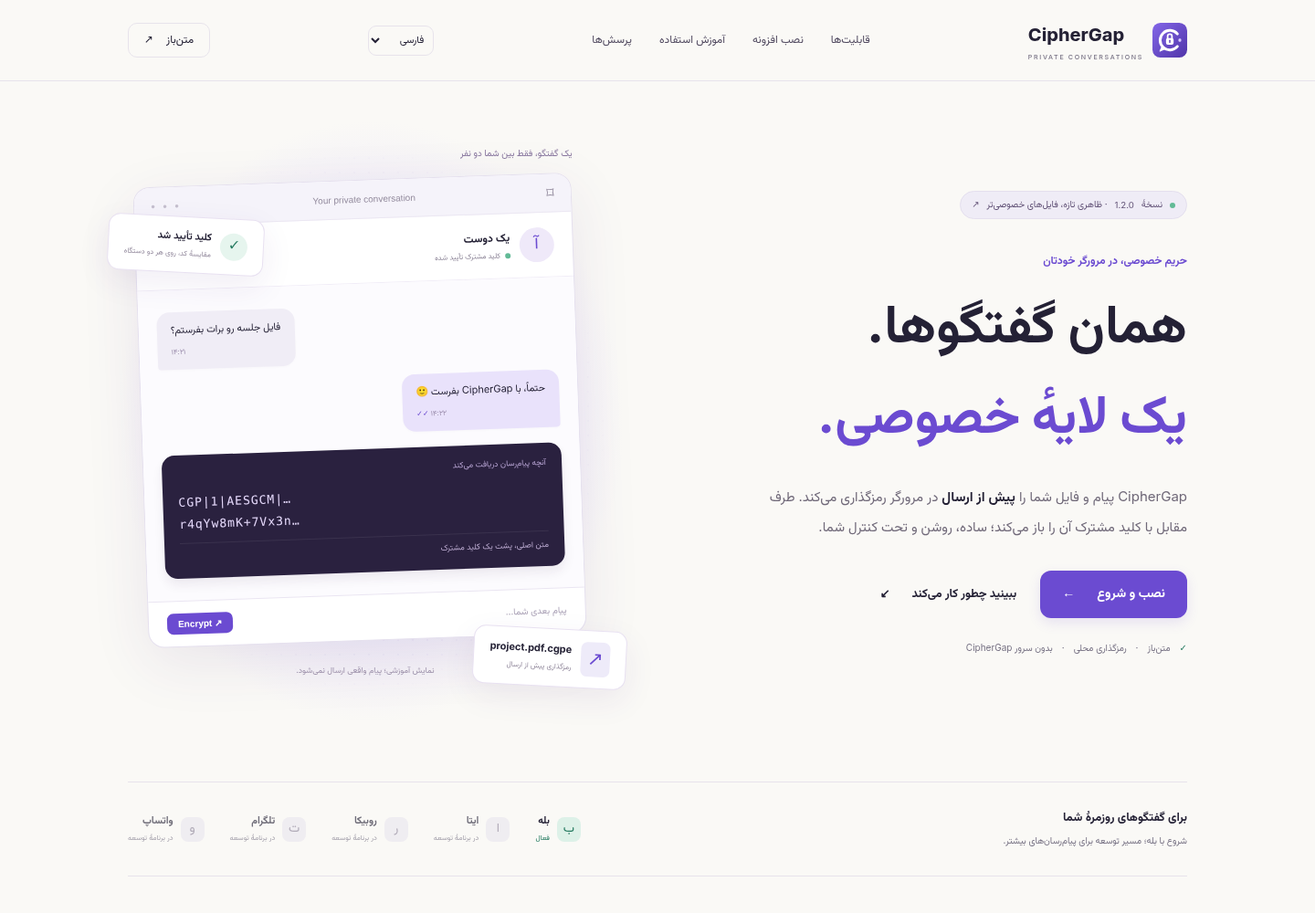
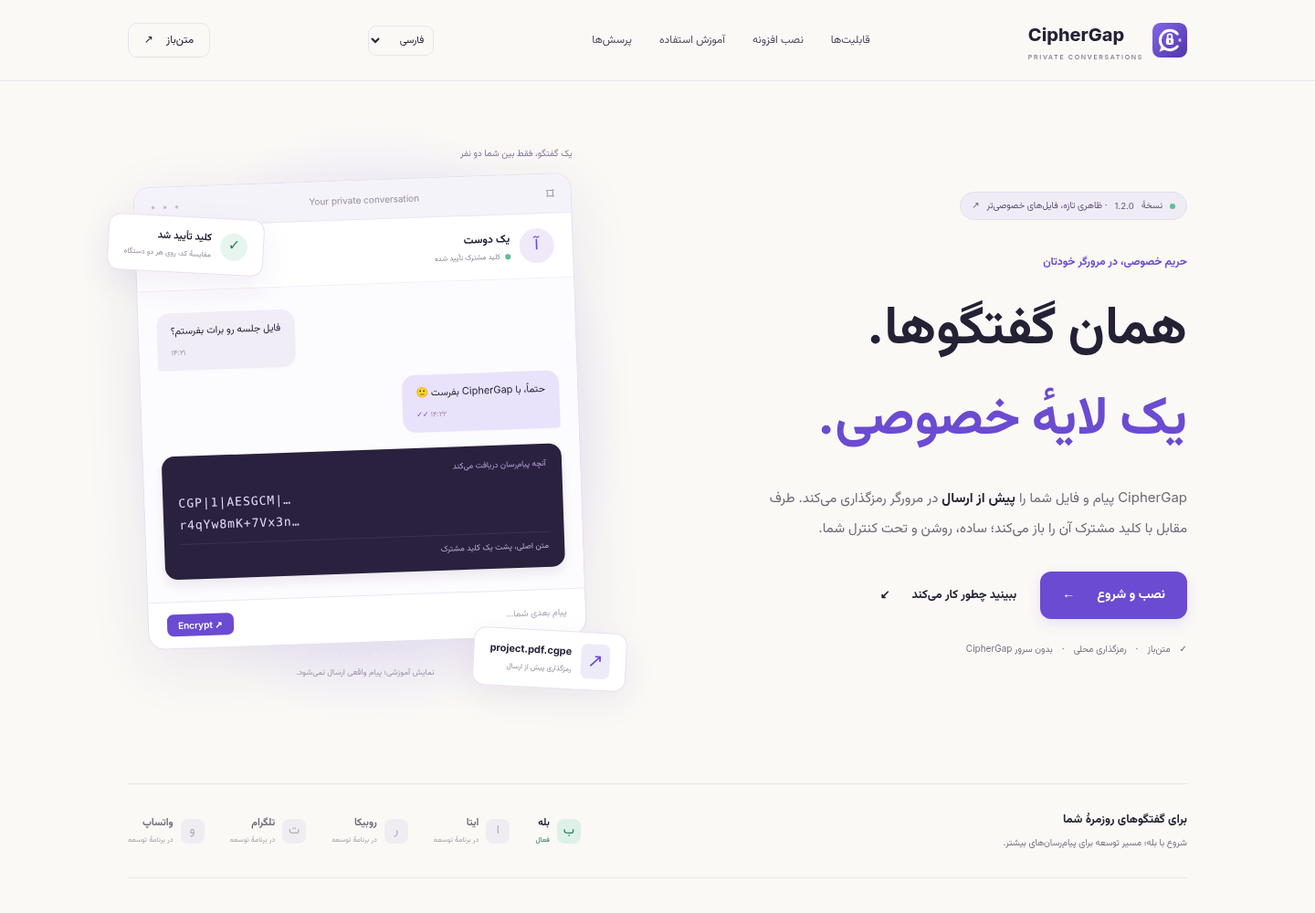
Apply local fonts across website components and translate page metadata

diff --git a/website/style.css b/website/style.css
@@ -2,13 +2,13 @@
 :root{--ink:#242135;--muted:#777284;--paper:#faf9f6;--purple:#6b4bd1;--purple-dark:#5335ae;--lavender:#eeebf9;--line:#e7e3eb;--green:#267b61;--radius:24px;scroll-behavior:smooth;scroll-padding-top:100px;color-scheme:light}
 *{box-sizing:border-box}body{margin:0;background:var(--paper);color:var(--ink);font-family:Vazirmatn,Inter,sans-serif;font-size:14px;line-height:1.9}button,a{-webkit-tap-highlight-color:transparent}button,input{font:inherit}button{cursor:pointer}a{color:inherit;text-decoration:none}img{max-width:100%;height:auto}h1,h2,h3,p,figure{margin:0}h1,h2,h3{font-weight:700}h2{font-size:36px;line-height:1.7;letter-spacing:-1.2px}h3{font-size:18px}bdi,code{font-family:Inter,Vazirmatn,sans-serif}bdi{font-size:.96em}strong{font-weight:700}[hidden]{display:none!important}:where(a,button,summary):focus-visible{outline:3px solid #aa8af4;outline-offset:5px}.container{width:min(1160px,calc(100% - 80px));margin-inline:auto}.section{padding-block:110px}.eyebrow{font-size:12px;font-weight:700;color:var(--purple);margin-bottom:14px}.dot{display:inline-block;width:6px;height:6px;border-radius:50%;background:#62ba96}.button{display:inline-flex;align-items:center;justify-content:center;gap:24px;min-height:52px;border-radius:12px;padding:12px 24px;font-weight:700;transition:background .2s,transform .2s}.button.primary{background:var(--purple);color:white;box-shadow:0 5px 14px #6b4bd122}.button.primary:hover{background:var(--purple-dark);transform:translateY(-2px)}.text-button{padding-inline:14px;font-size:13px}.text-button:hover{background:var(--lavender)}.inline-link{display:inline-flex;align-items:center;gap:18px;color:var(--purple);font-weight:700;font-size:13px}.skip-link{position:fixed;top:-80px;right:20px;background:var(--purple);color:white;padding:12px;z-index:100}.skip-link:focus{top:12px}
 .site-header{border-bottom:1px solid var(--line);background:#faf9f6f5;position:sticky;top:0;z-index:20}.header-inner{display:flex;align-items:center;justify-content:space-between;gap:24px;height:88px}.brand{display:flex;align-items:center;gap:10px;font-family:Inter,Vazirmatn,sans-serif;font-weight:750;font-size:20px}.brand img{flex-shrink:0}.brand-subtitle{display:block;font-size:7px;font-weight:500;letter-spacing:1.7px;color:var(--muted);line-height:1.6}.header-inner nav{display:flex;gap:30px;font-size:12px;color:#514a60}.header-inner nav a:hover{color:var(--purple)}.header-source{display:flex;gap:14px;align-items:center;border:1px solid var(--line);padding:7px 17px;border-radius:10px;font-size:12px}.header-source:hover{background:var(--lavender)}.menu-button{display:none}
-.hero{display:grid;grid-template-columns:1.05fr 1fr;gap:70px;align-items:center;min-height:680px;padding-block:60px 76px}.hero-copy{padding-block:20px}.release-pill{display:inline-flex;align-items:center;gap:8px;background:#efecf6;border:1px solid #e4dfee;border-radius:30px;color:#625277;font-size:10px;padding:5px 12px;margin-bottom:35px}.hero h1{font-size:58px;line-height:1.7;letter-spacing:-2px;margin-bottom:20px}.hero h1 span{color:var(--purple)}.hero-description{color:#706979;font-size:15px;max-width:470px;line-height:2.2}.hero-description strong{color:var(--ink)}.hero-actions{display:flex;align-items:center;gap:12px;margin-top:30px}.hero-note{display:flex;align-items:center;gap:10px;color:var(--muted);font-size:10px;margin-top:24px}.check{color:var(--green)}.hero-visual{position:relative;isolation:isolate;padding:48px 22px 36px 10px;direction:rtl}.hero-visual:before{content:"";position:absolute;inset:-15px -10px -10px -10px;background:radial-gradient(ellipse,#e4ddf7 0,#f1edf8 50%,transparent 71%);z-index:-2}.hero-visual:after{content:"";position:absolute;inset:0;background-image:radial-gradient(#b6a6de 1px,transparent 1px);background-size:16px 16px;mask-image:radial-gradient(ellipse,#000 10%,transparent 70%);opacity:.4;z-index:-1}.visual-label{position:absolute;top:10px;right:45px;font-size:10px;color:#8a789f}.chat-window{background:#fff;border:1px solid #e5e0ee;border-radius:18px;box-shadow:0 18px 65px #48298018;overflow:hidden;transform:rotate(-2deg);margin-inline:16px 4px}.window-title{display:flex;align-items:center;justify-content:space-between;padding:11px 18px;background:#f5f3fa;border-bottom:1px solid #ebe7f2;font:10px "Segoe UI",sans-serif;color:#958d9f;direction:ltr}.window-dots{letter-spacing:3px;color:#c5bfce;font-size:8px}.tiny-lock{font-size:16px}.chat-person{display:flex;align-items:center;gap:10px;padding:16px 20px;border-bottom:1px solid #f1edf7}.avatar{display:grid;place-items:center;width:38px;height:38px;background:#efe9f9;color:var(--purple);border-radius:50%;font-size:19px}.chat-person strong{display:block;font-size:12px}.chat-person small{display:flex;align-items:center;gap:5px;font-size:8px;color:#8c8497}.chat-mark{margin-right:auto;font:700 12px "Segoe UI",sans-serif;color:#b7aaca}.chat-messages{padding:24px 20px;display:flex;flex-direction:column;gap:14px;background:#fcfbfe;min-height:290px}.bubble{padding:11px 15px;border-radius:14px;font-size:11px;max-width:83%;box-shadow:0 1px 3px #28203305}.incoming{align-self:flex-end;background:#f0edf6;border-bottom-left-radius:4px}.outgoing{align-self:flex-start;background:#e9e2fb;border-bottom-right-radius:4px}.bubble small{display:block;text-align:left;font-size:8px;color:#9b8dac;margin-top:5px}.bubble small span{color:var(--purple)}.encrypted-bubble{background:#2a213f;color:#e4d8fa;border-radius:14px;padding:14px 17px;margin-top:3px;box-shadow:0 7px 12px #38204713}.encrypted-label{display:block;color:#b4a1d0;font-size:9px}.encrypted-bubble code{display:block;font-family:ui-monospace,monospace;font-size:13px;letter-spacing:1px;line-height:1.8;text-align:left;padding:9px 0}.encrypted-footer{display:block;padding-top:7px;border-top:1px solid #ffffff14;font-size:9px;color:#bbaaD0}.chat-composer{display:flex;align-items:center;justify-content:space-between;padding:13px 20px;font-size:10px;color:#aaa1b6;border-top:1px solid #eae5f2}.mock-encrypt{background:var(--purple);color:white;border-radius:7px;padding:6px 12px;font:600 10px "Segoe UI",sans-serif}.verification-stamp,.file-stamp{position:absolute;display:flex;align-items:center;gap:10px;background:white;border:1px solid #e8e1f1;border-radius:13px;padding:12px 17px;box-shadow:0 12px 35px #48298014;z-index:2}.verification-stamp{left:-22px;top:88px;transform:rotate(3deg)}.verification-stamp strong,.file-stamp strong{display:block;font-size:11px}.verification-stamp small,.file-stamp small{display:block;color:#948b9e;font-size:8px}.stamp-check{display:grid;place-items:center;background:#e6f5ee;width:30px;height:30px;border-radius:50%;color:var(--green);font-size:16px}.file-stamp{bottom:28px;right:-14px;transform:rotate(3deg)}.file-icon{display:grid;place-items:center;background:var(--lavender);color:var(--purple);width:32px;height:38px;border-radius:7px;font-size:21px}.visual-caption{font-size:9px;color:#a095ad;text-align:center;margin-top:25px}
+.hero{display:grid;grid-template-columns:1.05fr 1fr;gap:70px;align-items:center;min-height:680px;padding-block:60px 76px}.hero-copy{padding-block:20px}.release-pill{display:inline-flex;align-items:center;gap:8px;background:#efecf6;border:1px solid #e4dfee;border-radius:30px;color:#625277;font-size:10px;padding:5px 12px;margin-bottom:35px}.hero h1{font-size:58px;line-height:1.7;letter-spacing:-2px;margin-bottom:20px}.hero h1 span{color:var(--purple)}.hero-description{color:#706979;font-size:15px;max-width:470px;line-height:2.2}.hero-description strong{color:var(--ink)}.hero-actions{display:flex;align-items:center;gap:12px;margin-top:30px}.hero-note{display:flex;align-items:center;gap:10px;color:var(--muted);font-size:10px;margin-top:24px}.check{color:var(--green)}.hero-visual{position:relative;isolation:isolate;padding:48px 22px 36px 10px;direction:rtl}.hero-visual:before{content:"";position:absolute;inset:-15px -10px -10px -10px;background:radial-gradient(ellipse,#e4ddf7 0,#f1edf8 50%,transparent 71%);z-index:-2}.hero-visual:after{content:"";position:absolute;inset:0;background-image:radial-gradient(#b6a6de 1px,transparent 1px);background-size:16px 16px;mask-image:radial-gradient(ellipse,#000 10%,transparent 70%);opacity:.4;z-index:-1}.visual-label{position:absolute;top:10px;right:45px;font-size:10px;color:#8a789f}.chat-window{background:#fff;border:1px solid #e5e0ee;border-radius:18px;box-shadow:0 18px 65px #48298018;overflow:hidden;transform:rotate(-2deg);margin-inline:16px 4px}.window-title{display:flex;align-items:center;justify-content:space-between;padding:11px 18px;background:#f5f3fa;border-bottom:1px solid #ebe7f2;font:10px Inter,sans-serif;color:#958d9f;direction:ltr}.window-dots{letter-spacing:3px;color:#c5bfce;font-size:8px}.tiny-lock{font-size:16px}.chat-person{display:flex;align-items:center;gap:10px;padding:16px 20px;border-bottom:1px solid #f1edf7}.avatar{display:grid;place-items:center;width:38px;height:38px;background:#efe9f9;color:var(--purple);border-radius:50%;font-size:19px}.chat-person strong{display:block;font-size:12px}.chat-person small{display:flex;align-items:center;gap:5px;font-size:8px;color:#8c8497}.chat-mark{margin-right:auto;font:700 12px Inter,sans-serif;color:#b7aaca}.chat-messages{padding:24px 20px;display:flex;flex-direction:column;gap:14px;background:#fcfbfe;min-height:290px}.bubble{padding:11px 15px;border-radius:14px;font-size:11px;max-width:83%;box-shadow:0 1px 3px #28203305}.incoming{align-self:flex-end;background:#f0edf6;border-bottom-left-radius:4px}.outgoing{align-self:flex-start;background:#e9e2fb;border-bottom-right-radius:4px}.bubble small{display:block;text-align:left;font-size:8px;color:#9b8dac;margin-top:5px}.bubble small span{color:var(--purple)}.encrypted-bubble{background:#2a213f;color:#e4d8fa;border-radius:14px;padding:14px 17px;margin-top:3px;box-shadow:0 7px 12px #38204713}.encrypted-label{display:block;color:#b4a1d0;font-size:9px}.encrypted-bubble code{display:block;font-family:ui-monospace,monospace;font-size:13px;letter-spacing:1px;line-height:1.8;text-align:left;padding:9px 0}.encrypted-footer{display:block;padding-top:7px;border-top:1px solid #ffffff14;font-size:9px;color:#bbaaD0}.chat-composer{display:flex;align-items:center;justify-content:space-between;padding:13px 20px;font-size:10px;color:#aaa1b6;border-top:1px solid #eae5f2}.mock-encrypt{background:var(--purple);color:white;border-radius:7px;padding:6px 12px;font:600 10px Inter,sans-serif}.verification-stamp,.file-stamp{position:absolute;display:flex;align-items:center;gap:10px;background:white;border:1px solid #e8e1f1;border-radius:13px;padding:12px 17px;box-shadow:0 12px 35px #48298014;z-index:2}.verification-stamp{left:-22px;top:88px;transform:rotate(3deg)}.verification-stamp strong,.file-stamp strong{display:block;font-size:11px}.verification-stamp small,.file-stamp small{display:block;color:#948b9e;font-size:8px}.stamp-check{display:grid;place-items:center;background:#e6f5ee;width:30px;height:30px;border-radius:50%;color:var(--green);font-size:16px}.file-stamp{bottom:28px;right:-14px;transform:rotate(3deg)}.file-icon{display:grid;place-items:center;background:var(--lavender);color:var(--purple);width:32px;height:38px;border-radius:7px;font-size:21px}.visual-caption{font-size:9px;color:#a095ad;text-align:center;margin-top:25px}
 .messengers{display:flex;align-items:center;justify-content:space-between;gap:32px;border-block:1px solid var(--line);padding-block:28px}.messengers h2{font-size:13px;letter-spacing:0}.messengers p{font-size:10px;color:var(--muted);margin-top:5px}.messengers ul{padding:0;margin:0;list-style:none;display:flex;gap:28px}.messengers li{display:grid;grid-template-columns:26px auto;column-gap:8px;align-items:center;opacity:.65}.messengers .available{opacity:1}.messenger-symbol{grid-row:1/3;background:#eae7ef;border-radius:8px;height:27px;display:grid;place-items:center;font-size:14px;color:#8b8398}.available .messenger-symbol{background:#ddf1e8;color:var(--green)}.messengers strong{font-size:11px}.messengers small{font-size:8px;color:var(--muted)}.available small{color:var(--green)}
-.section-heading{display:flex;align-items:flex-end;justify-content:space-between;gap:36px;margin-bottom:44px}.section-heading>p{color:var(--muted);font-size:12px;line-height:2.1;padding-bottom:10px}.feature-grid{display:grid;grid-template-columns:repeat(3,1fr);gap:22px}.feature-card{padding:30px 26px;border:1px solid var(--line);background:#fffdfb;border-radius:var(--radius)}.feature-icon{display:grid;place-items:center;width:44px;height:44px;background:var(--lavender);color:var(--purple);border-radius:13px;font:600 21px "Segoe UI",sans-serif;margin-bottom:24px}.feature-card h3{font-size:17px;margin-bottom:12px}.feature-card p{font-size:12px;color:var(--muted);line-height:2.2}.feature-detail{display:block;font-size:9px;color:#9b8aac;margin-top:28px;padding-top:17px;border-top:1px solid var(--line)}
-.install-section{background:#eeebf6;border-block:1px solid #e7e1f1;padding-block:85px}.install-layout{display:grid;grid-template-columns:.9fr 1.1fr;gap:100px;align-items:start}.install-intro{padding-top:28px}.install-intro h2{font-size:39px;margin-bottom:22px}.install-intro h2 span{color:var(--purple)}.install-intro>p:not(.eyebrow){font-size:13px;line-height:2.3;color:var(--muted);max-width:345px;margin-bottom:25px}.install-note{display:flex;gap:12px;align-items:flex-start;margin-top:50px;padding:16px 0;border-top:1px solid #dad3e9;max-width:340px;color:#897e9c;font-size:10px}.install-note>span{border:1px solid #bfb2d8;border-radius:50%;line-height:18px;width:20px;flex:0 0 20px;text-align:center;font-family:serif;margin-top:3px}.install-card{background:#fff;border:1px solid #e4deef;border-radius:22px;padding:10px 30px 26px;box-shadow:0 12px 40px #39246a06}.tab-list{display:flex;gap:5px;direction:ltr;margin-bottom:24px;border-bottom:1px solid var(--line);padding-bottom:10px}.tab-list button{flex:1;background:transparent;border:0;border-radius:10px;padding:12px;color:#8b8398;font:600 12px "Segoe UI",sans-serif}.tab-list [aria-selected=true]{background:var(--lavender);color:var(--purple)}.panel-kicker{font-size:10px;color:#9789ac;margin-bottom:20px}.install-steps{margin:0;padding:0;list-style:none;display:grid;gap:25px}.install-steps li{display:flex;gap:16px}.install-steps li>span{flex:0 0 27px;height:27px;background:#f4f1fa;color:var(--purple);border-radius:8px;text-align:center;font-size:12px;line-height:27px}.install-steps li>div{min-width:0}.install-steps h3{font-size:13px;margin-bottom:6px}.install-steps p{font-size:11px;line-height:2;color:var(--muted)}.download-link{display:inline-flex;align-items:center;gap:18px;color:var(--purple);font-size:11px;font-weight:700;margin-top:8px}.download-link:hover{text-decoration:underline}.copy-row{display:flex;justify-content:space-between;align-items:center;gap:12px;border:1px solid var(--line);border-radius:9px;background:#faf9fc;padding:8px 10px;margin-top:9px;direction:ltr}.copy-row code{font-family:ui-monospace,monospace;font-size:11px;overflow-wrap:anywhere}.copy-row button{flex-shrink:0;border:0;background:#eee9f8;color:var(--purple);padding:3px 9px;border-radius:5px;font-size:10px}
-.guide-layout{display:grid;grid-template-columns:1fr .8fr;gap:100px;align-items:center}.guide-steps{margin:0;padding:0;list-style:none;display:grid;gap:35px}.guide-steps li{display:flex;gap:24px}.guide-steps li>span{font:400 23px "Segoe UI",sans-serif;color:#b7a5d7;direction:ltr;padding-top:4px}.guide-steps h3{font-size:18px;margin-bottom:12px}.guide-steps p{font-size:12px;line-height:2.2;color:var(--muted)}.guide-steps .security-tip{color:#85689b;font-size:10px;margin-top:12px;padding-right:12px;border-right:2px solid #d5c5ed}.product-shot{border:1px solid #e1dbe8;box-shadow:0 22px 70px #35205510;border-radius:20px;background:#fff;overflow:hidden;max-width:370px;margin-inline:auto}.product-shot img{display:block;width:100%}.shot-heading{display:flex;align-items:center;gap:9px;padding:12px 20px;background:#f4f1f8;border-bottom:1px solid #ede7f3;font:11px "Segoe UI",sans-serif;direction:ltr;color:#9586a8}.shot-version{margin-left:auto;font-size:9px}.product-shot figcaption{padding:10px 15px;text-align:center;font-size:9px;color:var(--muted);background:#faf9fc}.files-guide{display:grid;grid-template-columns:.8fr 1fr;gap:110px;align-items:center;padding-top:100px;margin-top:100px;border-top:1px solid var(--line)}.file-shot{max-width:335px;transform:rotate(2deg)}.files-copy h2{font-size:34px;margin-bottom:24px}.files-copy .feature-icon{margin-bottom:18px}.files-copy ol{list-style:none;padding:0;display:grid;gap:16px;font-size:12px;color:var(--muted);line-height:2.2}.files-copy ol strong{color:var(--ink)}.auto-receipt{display:flex;gap:16px;align-items:center;background:#eeebf7;border:1px solid #e5dff0;border-radius:12px;padding:18px;margin-top:25px;font-size:11px;color:#786a8b;line-height:2}.auto-receipt strong{color:var(--purple)}.mock-switch{width:32px;height:20px;background:var(--purple);border-radius:12px;flex:0 0 32px;position:relative}.mock-switch:after{content:"";position:absolute;width:14px;height:14px;top:3px;right:3px;border-radius:50%;background:#fff}.file-limit{font-size:10px;line-height:2;color:#9a8ea6;margin-top:17px}
+.section-heading{display:flex;align-items:flex-end;justify-content:space-between;gap:36px;margin-bottom:44px}.section-heading>p{color:var(--muted);font-size:12px;line-height:2.1;padding-bottom:10px}.feature-grid{display:grid;grid-template-columns:repeat(3,1fr);gap:22px}.feature-card{padding:30px 26px;border:1px solid var(--line);background:#fffdfb;border-radius:var(--radius)}.feature-icon{display:grid;place-items:center;width:44px;height:44px;background:var(--lavender);color:var(--purple);border-radius:13px;font:600 21px Inter,sans-serif;margin-bottom:24px}.feature-card h3{font-size:17px;margin-bottom:12px}.feature-card p{font-size:12px;color:var(--muted);line-height:2.2}.feature-detail{display:block;font-size:9px;color:#9b8aac;margin-top:28px;padding-top:17px;border-top:1px solid var(--line)}
+.install-section{background:#eeebf6;border-block:1px solid #e7e1f1;padding-block:85px}.install-layout{display:grid;grid-template-columns:.9fr 1.1fr;gap:100px;align-items:start}.install-intro{padding-top:28px}.install-intro h2{font-size:39px;margin-bottom:22px}.install-intro h2 span{color:var(--purple)}.install-intro>p:not(.eyebrow){font-size:13px;line-height:2.3;color:var(--muted);max-width:345px;margin-bottom:25px}.install-note{display:flex;gap:12px;align-items:flex-start;margin-top:50px;padding:16px 0;border-top:1px solid #dad3e9;max-width:340px;color:#897e9c;font-size:10px}.install-note>span{border:1px solid #bfb2d8;border-radius:50%;line-height:18px;width:20px;flex:0 0 20px;text-align:center;font-family:serif;margin-top:3px}.install-card{background:#fff;border:1px solid #e4deef;border-radius:22px;padding:10px 30px 26px;box-shadow:0 12px 40px #39246a06}.tab-list{display:flex;gap:5px;direction:ltr;margin-bottom:24px;border-bottom:1px solid var(--line);padding-bottom:10px}.tab-list button{flex:1;background:transparent;border:0;border-radius:10px;padding:12px;color:#8b8398;font:600 12px Inter,sans-serif}.tab-list [aria-selected=true]{background:var(--lavender);color:var(--purple)}.panel-kicker{font-size:10px;color:#9789ac;margin-bottom:20px}.install-steps{margin:0;padding:0;list-style:none;display:grid;gap:25px}.install-steps li{display:flex;gap:16px}.install-steps li>span{flex:0 0 27px;height:27px;background:#f4f1fa;color:var(--purple);border-radius:8px;text-align:center;font-size:12px;line-height:27px}.install-steps li>div{min-width:0}.install-steps h3{font-size:13px;margin-bottom:6px}.install-steps p{font-size:11px;line-height:2;color:var(--muted)}.download-link{display:inline-flex;align-items:center;gap:18px;color:var(--purple);font-size:11px;font-weight:700;margin-top:8px}.download-link:hover{text-decoration:underline}.copy-row{display:flex;justify-content:space-between;align-items:center;gap:12px;border:1px solid var(--line);border-radius:9px;background:#faf9fc;padding:8px 10px;margin-top:9px;direction:ltr}.copy-row code{font-family:ui-monospace,monospace;font-size:11px;overflow-wrap:anywhere}.copy-row button{flex-shrink:0;border:0;background:#eee9f8;color:var(--purple);padding:3px 9px;border-radius:5px;font-size:10px}
+.guide-layout{display:grid;grid-template-columns:1fr .8fr;gap:100px;align-items:center}.guide-steps{margin:0;padding:0;list-style:none;display:grid;gap:35px}.guide-steps li{display:flex;gap:24px}.guide-steps li>span{font:400 23px Inter,sans-serif;color:#b7a5d7;direction:ltr;padding-top:4px}.guide-steps h3{font-size:18px;margin-bottom:12px}.guide-steps p{font-size:12px;line-height:2.2;color:var(--muted)}.guide-steps .security-tip{color:#85689b;font-size:10px;margin-top:12px;padding-right:12px;border-right:2px solid #d5c5ed}.product-shot{border:1px solid #e1dbe8;box-shadow:0 22px 70px #35205510;border-radius:20px;background:#fff;overflow:hidden;max-width:370px;margin-inline:auto}.product-shot img{display:block;width:100%}.shot-heading{display:flex;align-items:center;gap:9px;padding:12px 20px;background:#f4f1f8;border-bottom:1px solid #ede7f3;font:11px Inter,sans-serif;direction:ltr;color:#9586a8}.shot-version{margin-left:auto;font-size:9px}.product-shot figcaption{padding:10px 15px;text-align:center;font-size:9px;color:var(--muted);background:#faf9fc}.files-guide{display:grid;grid-template-columns:.8fr 1fr;gap:110px;align-items:center;padding-top:100px;margin-top:100px;border-top:1px solid var(--line)}.file-shot{max-width:335px;transform:rotate(2deg)}.files-copy h2{font-size:34px;margin-bottom:24px}.files-copy .feature-icon{margin-bottom:18px}.files-copy ol{list-style:none;padding:0;display:grid;gap:16px;font-size:12px;color:var(--muted);line-height:2.2}.files-copy ol strong{color:var(--ink)}.auto-receipt{display:flex;gap:16px;align-items:center;background:#eeebf7;border:1px solid #e5dff0;border-radius:12px;padding:18px;margin-top:25px;font-size:11px;color:#786a8b;line-height:2}.auto-receipt strong{color:var(--purple)}.mock-switch{width:32px;height:20px;background:var(--purple);border-radius:12px;flex:0 0 32px;position:relative}.mock-switch:after{content:"";position:absolute;width:14px;height:14px;top:3px;right:3px;border-radius:50%;background:#fff}.file-limit{font-size:10px;line-height:2;color:#9a8ea6;margin-top:17px}
 .privacy-section{background:#2a223e;color:#eee7fb;padding-block:80px}.privacy-layout{display:grid;grid-template-columns:.8fr 1fr;gap:110px;align-items:center}.privacy-section .eyebrow{color:#b59ae8}.privacy-section h2{font-size:41px;line-height:1.8}.privacy-section h2 span{color:#b9a0ee}.privacy-copy>p{color:#c0b3d3;font-size:13px;line-height:2.3}.privacy-facts{display:flex;justify-content:space-between;gap:16px;margin-block:35px;padding-block:22px;border-block:1px solid #ffffff18}.privacy-facts strong{display:block;font-size:13px;color:#f4edff}.privacy-facts span{font-size:9px;color:#a698b9}.privacy-copy .privacy-boundary{font-size:10px;color:#9e8fb2;margin-bottom:25px}.privacy-copy .inline-link{color:#c1a8f5}
-.faq-layout{display:grid;grid-template-columns:.75fr 1.25fr;gap:100px}.faq-intro{font-size:11px;color:var(--muted);margin-top:20px}.faq-list{border-top:1px solid var(--line)}.faq-list details{border-bottom:1px solid var(--line);padding-block:20px}.faq-list summary{display:flex;align-items:center;justify-content:space-between;gap:20px;cursor:pointer;list-style:none;font-size:13px;font-weight:700}.faq-list summary::-webkit-details-marker{display:none}.faq-list summary:after{content:"+";color:var(--purple);font:400 22px "Segoe UI",sans-serif}.faq-list details[open] summary:after{content:"−"}.faq-list p{font-size:12px;line-height:2.3;color:var(--muted);padding-top:15px}.start-section{display:flex;align-items:center;gap:28px;padding:40px 44px;background:var(--lavender);border:1px solid #e3ddf0;border-radius:22px;margin-bottom:60px}.start-section img{width:64px;flex-shrink:0}.start-section h2{font-size:25px;line-height:1.6}.start-section .eyebrow{font-size:10px;margin-bottom:4px}.start-section p:not(.eyebrow){font-size:10px;color:var(--muted);margin-top:9px}.start-section .button{margin-right:auto}.site-footer{border-top:1px solid var(--line);display:flex;align-items:center;justify-content:space-between;gap:25px;padding-block:32px}.site-footer .brand{font-size:16px}.site-footer p{font-size:9px;color:var(--muted)}.site-footer p a{color:var(--purple)}.site-footer>div{display:flex;gap:22px;font-size:10px;color:#7b6e8d}.copy-status{position:fixed;bottom:24px;left:50%;transform:translateX(-50%);z-index:50;background:#2a223e;color:#fff;padding:10px 22px;box-shadow:0 8px 20px #21152e25;border-radius:12px;font-size:12px;max-width:calc(100% - 32px);text-align:center}
+.faq-layout{display:grid;grid-template-columns:.75fr 1.25fr;gap:100px}.faq-intro{font-size:11px;color:var(--muted);margin-top:20px}.faq-list{border-top:1px solid var(--line)}.faq-list details{border-bottom:1px solid var(--line);padding-block:20px}.faq-list summary{display:flex;align-items:center;justify-content:space-between;gap:20px;cursor:pointer;list-style:none;font-size:13px;font-weight:700}.faq-list summary::-webkit-details-marker{display:none}.faq-list summary:after{content:"+";color:var(--purple);font:400 22px Inter,sans-serif}.faq-list details[open] summary:after{content:"−"}.faq-list p{font-size:12px;line-height:2.3;color:var(--muted);padding-top:15px}.start-section{display:flex;align-items:center;gap:28px;padding:40px 44px;background:var(--lavender);border:1px solid #e3ddf0;border-radius:22px;margin-bottom:60px}.start-section img{width:64px;flex-shrink:0}.start-section h2{font-size:25px;line-height:1.6}.start-section .eyebrow{font-size:10px;margin-bottom:4px}.start-section p:not(.eyebrow){font-size:10px;color:var(--muted);margin-top:9px}.start-section .button{margin-right:auto}.site-footer{border-top:1px solid var(--line);display:flex;align-items:center;justify-content:space-between;gap:25px;padding-block:32px}.site-footer .brand{font-size:16px}.site-footer p{font-size:9px;color:var(--muted)}.site-footer p a{color:var(--purple)}.site-footer>div{display:flex;gap:22px;font-size:10px;color:#7b6e8d}.copy-status{position:fixed;bottom:24px;left:50%;transform:translateX(-50%);z-index:50;background:#2a223e;color:#fff;padding:10px 22px;box-shadow:0 8px 20px #21152e25;border-radius:12px;font-size:12px;max-width:calc(100% - 32px);text-align:center}
 @media(min-width:1600px){.hero{min-height:750px}.hero h1{font-size:65px}}
 @media(max-width:1000px){.container{width:calc(100% - 48px)}.header-inner nav{gap:18px}.hero{gap:30px;min-height:630px}.hero h1{font-size:46px}.hero-visual{padding-inline:0}.verification-stamp{left:-10px;top:60px}.file-stamp{right:-5px}.messengers{align-items:flex-start;flex-direction:column;gap:20px}.messengers ul{justify-content:space-between;width:100%}.install-layout,.guide-layout,.files-guide,.privacy-layout{gap:50px}.feature-card{padding:25px 18px}.feature-card h3{font-size:14px}.faq-layout{gap:50px}.section{padding-block:80px}.hero-actions{gap:5px}.hero-actions .button{padding-inline:18px;font-size:12px}}
 @media(max-width:720px){:root{scroll-padding-top:90px}.container{width:calc(100% - 36px)}.header-inner{height:76px;gap:12px;flex-wrap:wrap;position:relative}.brand{font-size:18px}.header-source{margin-right:auto;padding:6px 12px;font-size:10px}.menu-button{display:flex;gap:8px;align-items:center;order:3;border:1px solid var(--line);background:transparent;padding:7px 10px;border-radius:9px;font-size:11px}.header-inner nav{display:none;position:absolute;inset-inline:0;top:75px;padding:20px;background:var(--paper);border:1px solid var(--line);border-radius:0 0 14px 14px;box-shadow:0 12px 20px #28203310;flex-direction:column;gap:18px}.header-inner nav[data-open=true]{display:flex}.hero{grid-template-columns:1fr;gap:14px;padding-block:30px 35px}.hero-copy{padding-block:0}.release-pill{font-size:9px;margin-bottom:26px}.hero .eyebrow{font-size:11px}.hero h1{font-size:43px;line-height:1.65;letter-spacing:-1.5px;margin-bottom:18px}.hero-description{font-size:13px;line-height:2.2}.hero-actions{gap:8px;margin-top:24px}.hero-note{font-size:9px;gap:8px;margin-top:19px}.hero-visual{max-width:440px;width:100%;margin:10px auto 0;padding:40px 12px 38px}.hero-visual:before{inset:0 -10px}.visual-label{right:30px}.verification-stamp{left:0;top:70px;padding:9px 12px}.file-stamp{right:0;bottom:26px;padding:9px 12px}.chat-window{margin-inline:13px 4px}.chat-messages{min-height:270px}.visual-caption{font-size:8px}.messengers{padding-block:24px}.messengers ul{flex-wrap:wrap;justify-content:flex-start;gap:22px 18px}.messengers li{width:calc((100% - 36px)/3)}.section{padding-block:65px}h2{font-size:28px;letter-spacing:-.8px}.section-heading{flex-direction:column;align-items:flex-start;gap:15px;margin-bottom:28px}.section-heading>p{font-size:11px;padding:0}.feature-grid{grid-template-columns:1fr;gap:14px}.feature-card{padding:24px}.feature-icon{margin-bottom:18px}.feature-card h3{font-size:17px}.feature-card p{font-size:12px}.feature-detail{margin-top:18px;padding-top:12px}.install-section{padding-block:55px}.install-layout{grid-template-columns:1fr;gap:28px}.install-intro{padding:0}.install-intro h2{font-size:31px}.install-intro>p:not(.eyebrow){max-width:none;margin-bottom:16px}.install-note{margin-top:22px;max-width:none}.install-card{padding-inline:19px}.tab-list button{padding:12px 8px;font-size:11px}.install-steps{gap:22px}.copy-row code{font-size:10px}.guide-layout,.files-guide{grid-template-columns:1fr;gap:40px}.guide-steps{gap:28px}.guide-steps li{gap:17px}.guide-steps h3{font-size:16px}.guide-steps li>span{font-size:19px}.product-shot{width:min(100%,350px)}.files-guide{padding-top:60px;margin-top:60px}.file-shot{grid-row:2;max-width:310px}.files-copy h2{font-size:29px}.privacy-section{padding-block:60px}.privacy-layout{grid-template-columns:1fr;gap:28px}.privacy-section h2{font-size:34px;line-height:1.6}.privacy-facts{gap:10px;margin-block:24px}.privacy-facts strong{font-size:11px}.privacy-facts span{font-size:8px}.faq-layout{grid-template-columns:1fr;gap:28px}.faq-layout h2 br{display:none}.faq-intro{margin-top:10px}.faq-list summary{font-size:12px}.start-section{flex-wrap:wrap;gap:18px;padding:28px 22px;margin-bottom:35px}.start-section img{width:46px}.start-section h2{font-size:20px}.start-section .eyebrow{font-size:9px}.start-section .button{width:100%;margin:6px 0 0}.site-footer{flex-direction:column;align-items:flex-start;gap:16px;padding-block:25px}.site-footer p{font-size:9px}.site-footer>div{gap:24px}.copy-status{font-size:11px}}

diff --git a/website/languages.js b/website/languages.js
@@ -189,5 +189,7 @@ window.CipherGapEnglish = {
   "کپی آدرس صفحهٔ افزونههای کروم": "Copy the Chrome extensions address",
   "کپی آدرس ابزار توسعهٔ فایرفاکس": "Copy the Firefox developer tools address",
   "نمای بخش امنیت CipherGap پس از تأیید کلید مشترک": "CipherGap security screen after shared key verification",
-  "صفحهٔ Files با انتخاب فایل امن و تنظیم دریافت خودکار": "Files screen with secure file selection and automatic receiving"
+  "صفحهٔ Files با انتخاب فایل امن و تنظیم دریافت خودکار": "Files screen with secure file selection and automatic receiving",
+  "CipherGap؛ افزونهٔ متنباز برای رمزگذاری پیام و فایل در مرورگر. راهنمای نصب در کروم و فایرفاکس، تبادل کلید و استفاده در بله وب.": "CipherGap is an open-source extension for browser-side message and file encryption. Install in Chrome or Firefox, exchange a key, and use it on Bale Web.",
+  "پیام و فایل را پیش از ارسال رمزگذاری کنید. نصب، تبادل کلید و شروع یک گفتگوی رمزشده، قدم به قدم.": "Encrypt messages and files before sending. Installation, key exchange, and your first private conversation, step by step."
 };
